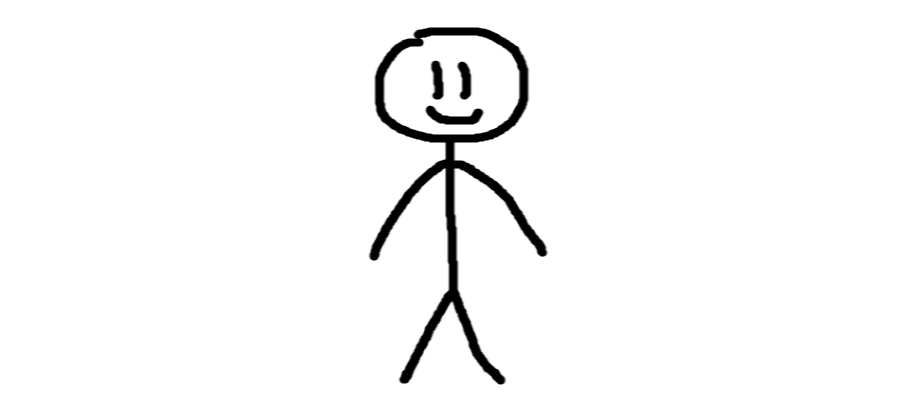
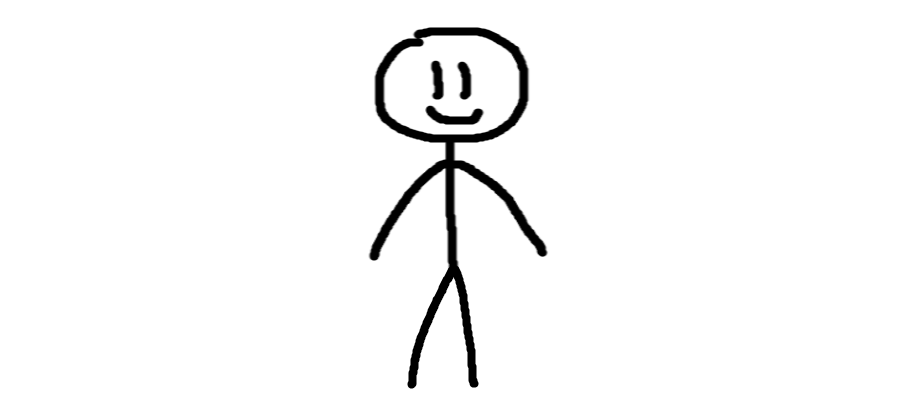
обнова разделов

Changed region(s): [[0.4356, 0.66, 0.56, 0.96], [0.4356, 0.9, 0.4667, 0.99]]

diff --git a/bot.py b/bot.py
@@ -3347,9 +3347,22 @@ async def render_skin_with_clothing(item_id: str | None) -> bytes:
     return buf.getvalue()
 
 
-async def clothing_shop_view(idx: int, user_id: int):
-    idx = max(0, min(idx, len(CLOTHING_SHOP_ITEMS) - 1))
-    item = CLOTHING_SHOP_ITEMS[idx]
+async def clothing_shop_view(idx: int, user_id: int, category: str | None = None):
+    if category:
+        category_items = clothing_items_for_category(category)
+        if not category_items:
+            return (
+                "🛒 <b>Магазин одежды</b>\n\nВ этом разделе пока нет товаров.",
+                InlineKeyboardMarkup(inline_keyboard=[]),
+                {"id": "", "name": "", "image": None},
+            )
+        idx = max(0, min(idx, len(category_items) - 1))
+        item = category_items[idx]
+        nav_items = category_items
+    else:
+        idx = max(0, min(idx, len(CLOTHING_SHOP_ITEMS) - 1))
+        item = CLOTHING_SHOP_ITEMS[idx]
+        nav_items = CLOTHING_SHOP_ITEMS
     owned = await get_owned_clothes(user_id)
     equipped = await get_equipped_top(user_id)
     balance = await get_balance(user_id)
@@ -3373,8 +3386,8 @@ async def clothing_shop_view(idx: int, user_id: int):
     nav = []
     if idx > 0:
         nav.append(InlineKeyboardButton(text="⬅", callback_data=f"clothing_car:{idx-1}"))
-    nav.append(InlineKeyboardButton(text=f"{idx+1}/{len(CLOTHING_SHOP_ITEMS)}", callback_data="clothing_noop"))
-    if idx < len(CLOTHING_SHOP_ITEMS) - 1:
+    nav.append(InlineKeyboardButton(text=f"{idx+1}/{len(nav_items)}", callback_data="clothing_noop"))
+    if idx < len(nav_items) - 1:
         nav.append(InlineKeyboardButton(text="➡", callback_data=f"clothing_car:{idx+1}"))
 
     # В магазине оставляем только навигацию и действие с товаром.
@@ -3385,8 +3398,8 @@ async def clothing_shop_view(idx: int, user_id: int):
     return text, InlineKeyboardMarkup(inline_keyboard=rows), item
 
 
-async def send_clothing_shop(bot_obj, chat_id: int, user_id: int, idx: int = 0, message_id: int | None = None):
-    text, kb, item = await clothing_shop_view(idx, user_id)
+async def send_clothing_shop(bot_obj, chat_id: int, user_id: int, idx: int = 0, message_id: int | None = None, category: str | None = None):
+    text, kb, item = await clothing_shop_view(idx, user_id, category=category)
     image_path = item.get("image")
 
     if message_id:
@@ -4454,23 +4467,94 @@ async def daily_task_claim(callback: CallbackQuery):
         pass
 
 
+SHOP_CLOTHING_CATEGORIES = {
+    "🧢 Головные уборы": "head",
+    "👕 Вверх": "top",
+    "👖 Низ": "bottom",
+    "👟 Обувь": "shoes",
+}
+
+
+def get_clothing_category_keyboard():
+    return ReplyKeyboardMarkup(
+        keyboard=[
+            [KeyboardButton(text="🧢 Головные уборы"), KeyboardButton(text="👕 Вверх")],
+            [KeyboardButton(text="👖 Низ"), KeyboardButton(text="👟 Обувь")],
+            [KeyboardButton(text="🔙 В магазин")],
+        ],
+        resize_keyboard=True,
+    )
+
+
+def clothing_items_for_category(category: str):
+    return [
+        item for item in CLOTHING_SHOP_ITEMS
+        if item.get("slot", "top") == category
+    ]
+
+
+async def show_clothing_category(message: Message, state: FSMContext, category: str):
+    items = clothing_items_for_category(category)
+    await state.clear()
+    await state.update_data(clothing_category=category)
+
+    if not items:
+        await message.answer(
+            "🛒 <b>Магазин одежды</b>\n\n"
+            "В этом разделе пока нет товаров.",
+            parse_mode="HTML",
+            reply_markup=get_clothing_category_keyboard(),
+        )
+        return
+
+    # Для совместимости с существующей каруселью временно показываем
+    # товары выбранного раздела через отдельный список индексов.
+    first_item = items[0]
+    global_idx = CLOTHING_SHOP_ITEMS.index(first_item)
+    msg_id = await send_clothing_shop(
+        message.bot,
+        message.chat.id,
+        message.from_user.id,
+        idx=global_idx,
+    )
+    await state.update_data(
+        clothing_msg_id=msg_id,
+        clothing_idx=global_idx,
+        clothing_category=category,
+    )
+
+
+@router.message(F.text.in_(list(SHOP_CLOTHING_CATEGORIES.keys())))
+async def clothing_category_handler(message: Message, state: FSMContext):
+    await show_clothing_category(
+        message,
+        state,
+        SHOP_CLOTHING_CATEGORIES[message.text],
+    )
+
+
+@router.message(F.text == "🔙 В магазин")
+async def clothing_back_to_shop_menu(message: Message, state: FSMContext):
+    await state.clear()
+    await message.answer(
+        "🛒 <b>Магазин</b>\n\nВыбери, какой магазин открыть:",
+        parse_mode="HTML",
+        reply_markup=get_shop_keyboard(),
+    )
+
+
 @router.message(F.text == "🛒 Магазин")
 async def show_clothing_shop(message: Message, state: FSMContext):
-    """Открывает именно магазин одежды."""
+    """Открывает магазин одежды с выбором раздела."""
     user_id = message.from_user.id
     if not await check_level_access(message, user_id, SHOP_UNLOCK_LEVEL):
         return
 
     await state.clear()
-    msg_id = await send_clothing_shop(
-        message.bot,
-        message.chat.id,
-        user_id,
-        idx=0,
-    )
-    await state.update_data(
-        clothing_msg_id=msg_id,
-        clothing_idx=0,
+    await message.answer(
+        "🛒 <b>Магазин одежды</b>\n\nВыбери раздел:",
+        parse_mode="HTML",
+        reply_markup=get_clothing_category_keyboard(),
     )
 
 
@@ -4478,14 +4562,30 @@ async def show_clothing_shop(message: Message, state: FSMContext):
 async def clothing_car(callback: CallbackQuery, state: FSMContext):
     idx = int(callback.data.split(":", 1)[1])
     data = await state.get_data()
+    category = data.get("clothing_category")
     old_id = data.get("clothing_msg_id", callback.message.message_id)
+
+    if category:
+        category_items = clothing_items_for_category(category)
+        if category_items:
+            category_ids = [item["id"] for item in category_items]
+            idx = max(0, min(idx, len(category_ids) - 1))
+            global_idx = CLOTHING_SHOP_ITEMS.index(
+                CLOTHING_ITEMS_BY_ID[category_ids[idx]]
+            )
+        else:
+            await callback.answer("В этом разделе пока нет товаров.", show_alert=True)
+            return
+    else:
+        global_idx = idx
 
     msg_id = await send_clothing_shop(
         callback.bot,
         callback.message.chat.id,
         callback.from_user.id,
-        idx=idx,
+        idx=idx if category else global_idx,
         message_id=old_id,
+        category=category,
     )
     await state.update_data(
         clothing_msg_id=msg_id,
@@ -4518,7 +4618,18 @@ async def clothing_try(callback: CallbackQuery, state: FSMContext):
 async def clothing_preview_back(callback: CallbackQuery, state: FSMContext):
     data = await state.get_data()
     idx = int(data.get("clothing_idx", 0))
+    category = data.get("clothing_category")
     old_id = data.get("clothing_msg_id", callback.message.message_id)
+
+    if category:
+        category_items = clothing_items_for_category(category)
+        if category_items:
+            current_item_id = data.get("clothing_preview_item")
+            ids = [item["id"] for item in category_items]
+            if current_item_id in ids:
+                idx = ids.index(current_item_id)
+            else:
+                idx = 0
 
     msg_id = await send_clothing_shop(
         callback.bot,
@@ -4526,6 +4637,7 @@ async def clothing_preview_back(callback: CallbackQuery, state: FSMContext):
         callback.from_user.id,
         idx=idx,
         message_id=old_id,
+        category=category,
     )
     await state.update_data(clothing_msg_id=msg_id)
     await callback.answer()
@@ -4543,7 +4655,15 @@ async def clothing_preview_buy(callback: CallbackQuery, state: FSMContext):
     # После покупки возвращаемся к карточке магазина.
     data = await state.get_data()
     idx = int(data.get("clothing_idx", 0))
+    category = data.get("clothing_category")
     old_id = data.get("clothing_msg_id", callback.message.message_id)
+
+    if category:
+        category_items = clothing_items_for_category(category)
+        if category_items:
+            ids = [item["id"] for item in category_items]
+            if item_id in ids:
+                idx = ids.index(item_id)
 
     msg_id = await send_clothing_shop(
         callback.bot,
@@ -4551,6 +4671,7 @@ async def clothing_preview_buy(callback: CallbackQuery, state: FSMContext):
         callback.from_user.id,
         idx=idx,
         message_id=old_id,
+        category=category,
     )
     await state.update_data(clothing_msg_id=msg_id)
     await callback.answer(msg, show_alert=True)
